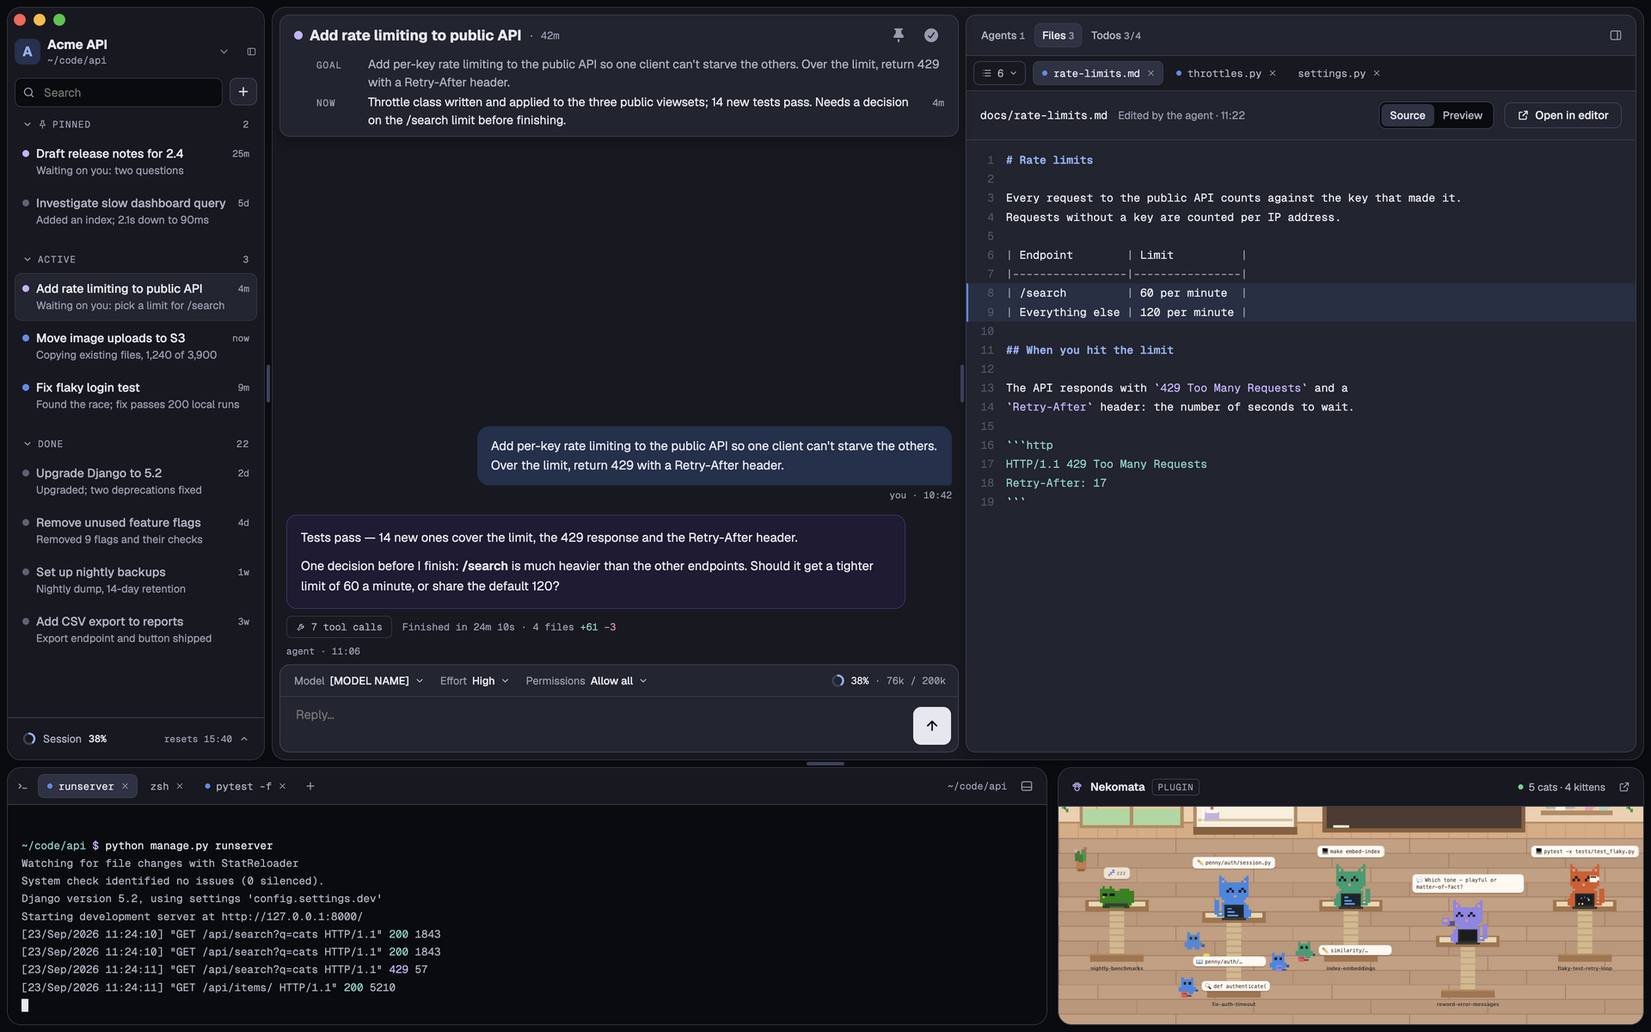
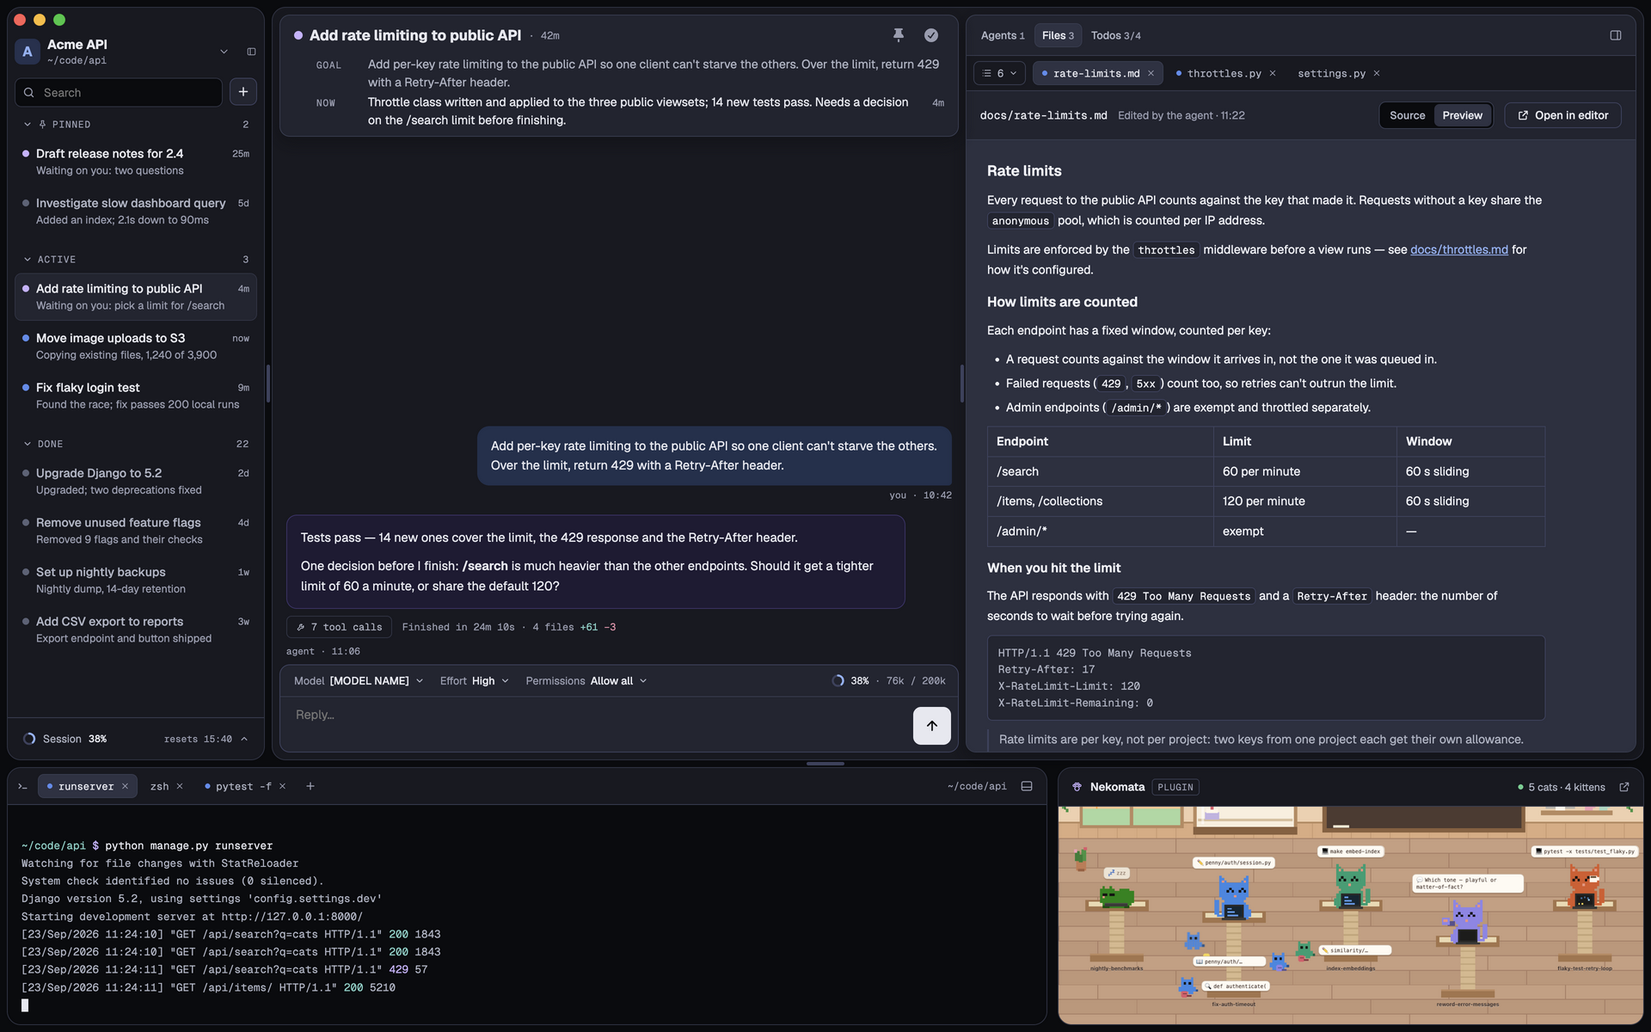
659: Lift the Markdown preview's colours for reading

Changed region(s): [[0.5938, 0.1542, 0.9375, 0.74], [0.8438, 0.4008, 0.9062, 0.4933], [0.8125, 0.0925, 0.9062, 0.1233]]

diff --git a/docs/design/html/08-open-file.html b/docs/design/html/08-open-file.html
@@ -156,27 +156,39 @@ a{color:#8FB2F5}a:hover{color:#B5CBF8}
 <span style="font-family: 'Geist Mono', ui-monospace, monospace; font-size: 13px; color: #E6E8F0">docs/rate-limits.md</span>
 <span style="font-size: 12.5px; color: #999DB0">Edited by the agent · 11:22</span>
 <span style="flex-grow: 1"></span>
-<div style="display: flex; padding: 2px; background: #0A0B0F; border: 1px solid #373C4F; border-radius: 8px"><button type="button" aria-pressed="true" style="height: 26px; padding: 0 10px; background: #2E3243; border: 0; border-radius: 6px; font: inherit; font-size: 12.5px; font-weight: 500; color: #E6E8F0; cursor: pointer">Source</button><button type="button" aria-pressed="false" style="height: 26px; padding: 0 10px; background: transparent; border: 0; border-radius: 6px; font: inherit; font-size: 12.5px; font-weight: 500; color: #AEB3C3; cursor: pointer">Preview</button></div><button type="button" style="display: flex; align-items: center; justify-content: center; gap: 7px; height: 30px; padding: 0 14px; border-radius: 8px; font: inherit; font-size: 13px; background: transparent; color: #E6E8F0; border: 1px solid #3D425E; font-weight: 500; cursor: pointer; white-space: nowrap"><svg width="14" height="14" viewBox="0 0 24 24" fill="none" stroke="currentColor" stroke-width="2.2" stroke-linecap="round" stroke-linejoin="round"><path d="M14 4h6v6M20 4l-9 9"></path><path d="M18 14v5a1 1 0 0 1-1 1H5a1 1 0 0 1-1-1V7a1 1 0 0 1 1-1h5"></path></svg>Open in editor</button>
+<div style="display: flex; padding: 2px; background: #0A0B0F; border: 1px solid #373C4F; border-radius: 8px"><button type="button" aria-pressed="false" style="height: 26px; padding: 0 10px; background: transparent; border: 0; border-radius: 6px; font: inherit; font-size: 12.5px; font-weight: 500; color: #AEB3C3; cursor: pointer">Source</button><button type="button" aria-pressed="true" style="height: 26px; padding: 0 10px; background: #2E3243; border: 0; border-radius: 6px; font: inherit; font-size: 12.5px; font-weight: 500; color: #E6E8F0; cursor: pointer">Preview</button></div><button type="button" style="display: flex; align-items: center; justify-content: center; gap: 7px; height: 30px; padding: 0 14px; border-radius: 8px; font: inherit; font-size: 13px; background: transparent; color: #E6E8F0; border: 1px solid #3D425E; font-weight: 500; cursor: pointer; white-space: nowrap"><svg width="14" height="14" viewBox="0 0 24 24" fill="none" stroke="currentColor" stroke-width="2.2" stroke-linecap="round" stroke-linejoin="round"><path d="M14 4h6v6M20 4l-9 9"></path><path d="M18 14v5a1 1 0 0 1-1 1H5a1 1 0 0 1-1-1V7a1 1 0 0 1 1-1h5"></path></svg>Open in editor</button>
 </div>
-<div style="flex-grow: 1; overflow: hidden"><div style="font-family: 'Geist Mono', ui-monospace, monospace; font-size: 13px; line-height: 1.7; color: #E6E8F0; padding: 12px 0"><div style="display: flex;  border-left: 2px solid transparent"><span style="flex-shrink: 0; width: 44px; padding-right: 14px; box-sizing: border-box; text-align: right; color: #4E5468; user-select: none">1</span><span style="white-space: pre"><span style="color: #8FB2F5; font-weight: 600"># Rate limits</span></span></div>
-<div style="display: flex;  border-left: 2px solid transparent"><span style="flex-shrink: 0; width: 44px; padding-right: 14px; box-sizing: border-box; text-align: right; color: #4E5468; user-select: none">2</span><span style="white-space: pre"> </span></div>
-<div style="display: flex;  border-left: 2px solid transparent"><span style="flex-shrink: 0; width: 44px; padding-right: 14px; box-sizing: border-box; text-align: right; color: #4E5468; user-select: none">3</span><span style="white-space: pre">Every request to the public API counts against the key that made it.</span></div>
-<div style="display: flex;  border-left: 2px solid transparent"><span style="flex-shrink: 0; width: 44px; padding-right: 14px; box-sizing: border-box; text-align: right; color: #4E5468; user-select: none">4</span><span style="white-space: pre">Requests without a key are counted per IP address.</span></div>
-<div style="display: flex;  border-left: 2px solid transparent"><span style="flex-shrink: 0; width: 44px; padding-right: 14px; box-sizing: border-box; text-align: right; color: #4E5468; user-select: none">5</span><span style="white-space: pre"> </span></div>
-<div style="display: flex;  border-left: 2px solid transparent"><span style="flex-shrink: 0; width: 44px; padding-right: 14px; box-sizing: border-box; text-align: right; color: #4E5468; user-select: none">6</span><span style="white-space: pre"><span style="color: #999DB0">|</span> Endpoint        <span style="color: #999DB0">|</span> Limit          <span style="color: #999DB0">|</span></span></div>
-<div style="display: flex;  border-left: 2px solid transparent"><span style="flex-shrink: 0; width: 44px; padding-right: 14px; box-sizing: border-box; text-align: right; color: #4E5468; user-select: none">7</span><span style="white-space: pre"><span style="color: #999DB0">|-----------------|----------------|</span></span></div>
-<div style="display: flex; background: rgba(91,141,239,0.10); border-left: 2px solid #5B8DEF"><span style="flex-shrink: 0; width: 44px; padding-right: 14px; box-sizing: border-box; text-align: right; color: #4E5468; user-select: none">8</span><span style="white-space: pre"><span style="color: #999DB0">|</span> /search         <span style="color: #999DB0">|</span> 60 per minute  <span style="color: #999DB0">|</span></span></div>
-<div style="display: flex; background: rgba(91,141,239,0.10); border-left: 2px solid #5B8DEF"><span style="flex-shrink: 0; width: 44px; padding-right: 14px; box-sizing: border-box; text-align: right; color: #4E5468; user-select: none">9</span><span style="white-space: pre"><span style="color: #999DB0">|</span> Everything else <span style="color: #999DB0">|</span> 120 per minute <span style="color: #999DB0">|</span></span></div>
-<div style="display: flex;  border-left: 2px solid transparent"><span style="flex-shrink: 0; width: 44px; padding-right: 14px; box-sizing: border-box; text-align: right; color: #4E5468; user-select: none">10</span><span style="white-space: pre"> </span></div>
-<div style="display: flex;  border-left: 2px solid transparent"><span style="flex-shrink: 0; width: 44px; padding-right: 14px; box-sizing: border-box; text-align: right; color: #4E5468; user-select: none">11</span><span style="white-space: pre"><span style="color: #8FB2F5; font-weight: 600">## When you hit the limit</span></span></div>
-<div style="display: flex;  border-left: 2px solid transparent"><span style="flex-shrink: 0; width: 44px; padding-right: 14px; box-sizing: border-box; text-align: right; color: #4E5468; user-select: none">12</span><span style="white-space: pre"> </span></div>
-<div style="display: flex;  border-left: 2px solid transparent"><span style="flex-shrink: 0; width: 44px; padding-right: 14px; box-sizing: border-box; text-align: right; color: #4E5468; user-select: none">13</span><span style="white-space: pre">The API responds with <span style="color: #C8B2FF">`429 Too Many Requests`</span> and a</span></div>
-<div style="display: flex;  border-left: 2px solid transparent"><span style="flex-shrink: 0; width: 44px; padding-right: 14px; box-sizing: border-box; text-align: right; color: #4E5468; user-select: none">14</span><span style="white-space: pre"><span style="color: #C8B2FF">`Retry-After`</span> header: the number of seconds to wait.</span></div>
-<div style="display: flex;  border-left: 2px solid transparent"><span style="flex-shrink: 0; width: 44px; padding-right: 14px; box-sizing: border-box; text-align: right; color: #4E5468; user-select: none">15</span><span style="white-space: pre"> </span></div>
-<div style="display: flex;  border-left: 2px solid transparent"><span style="flex-shrink: 0; width: 44px; padding-right: 14px; box-sizing: border-box; text-align: right; color: #4E5468; user-select: none">16</span><span style="white-space: pre"><span style="color: #7FD1C7">```http</span></span></div>
-<div style="display: flex;  border-left: 2px solid transparent"><span style="flex-shrink: 0; width: 44px; padding-right: 14px; box-sizing: border-box; text-align: right; color: #4E5468; user-select: none">17</span><span style="white-space: pre"><span style="color: #7FD1C7">HTTP/1.1 429 Too Many Requests</span></span></div>
-<div style="display: flex;  border-left: 2px solid transparent"><span style="flex-shrink: 0; width: 44px; padding-right: 14px; box-sizing: border-box; text-align: right; color: #4E5468; user-select: none">18</span><span style="white-space: pre"><span style="color: #7FD1C7">Retry-After: 17</span></span></div>
-<div style="display: flex;  border-left: 2px solid transparent"><span style="flex-shrink: 0; width: 44px; padding-right: 14px; box-sizing: border-box; text-align: right; color: #4E5468; user-select: none">19</span><span style="white-space: pre"><span style="color: #7FD1C7">```</span></span></div></div>
+<div style="flex-grow: 1; overflow: hidden; background: #2C3040">
+<div style="box-sizing: border-box; height: 100%; overflow: hidden; padding: 20px 24px 28px 24px; font-size: 14px; line-height: 1.7; color: #F0F2F8">
+<div style="display: flex; flex-direction: column; gap: 10px; min-width: 0; overflow-wrap: anywhere; max-width: 70ch;">
+<h1 style="margin: 4px 0 0; font-size: 17px; font-weight: 600; line-height: 1.4">Rate limits</h1>
+<p style="margin: 0">Every request to the public API counts against the key that made it. Requests without a key share the <code style="padding: 1px 5px; background: #232531; border: 1px solid #3D425E; border-radius: 5px; font-family: 'Geist Mono', ui-monospace, monospace; font-size: 0.88em; color: #F0F2F8">anonymous</code> pool, which is counted per IP address.</p>
+<p style="margin: 0">Limits are enforced by the <code style="padding: 1px 5px; background: #232531; border: 1px solid #3D425E; border-radius: 5px; font-family: 'Geist Mono', ui-monospace, monospace; font-size: 0.88em; color: #F0F2F8">throttles</code> middleware before a view runs — see <a style="color: #8FB2F5" href="#">docs/throttles.md</a> for how it's configured.</p>
+<h2 style="margin: 4px 0 0; font-size: 16px; font-weight: 600; line-height: 1.4">How limits are counted</h2>
+<p style="margin: 0">Each endpoint has a fixed window, counted per key:</p>
+<ul style="margin: 0; padding-left: 22px">
+<li>A request counts against the window it arrives in, not the one it was queued in.</li>
+<li style="margin-top: 4px">Failed requests (<code style="padding: 1px 5px; background: #232531; border: 1px solid #3D425E; border-radius: 5px; font-family: 'Geist Mono', ui-monospace, monospace; font-size: 0.88em; color: #F0F2F8">429</code>, <code style="padding: 1px 5px; background: #232531; border: 1px solid #3D425E; border-radius: 5px; font-family: 'Geist Mono', ui-monospace, monospace; font-size: 0.88em; color: #F0F2F8">5xx</code>) count too, so retries can't outrun the limit.</li>
+<li style="margin-top: 4px">Admin endpoints (<code style="padding: 1px 5px; background: #232531; border: 1px solid #3D425E; border-radius: 5px; font-family: 'Geist Mono', ui-monospace, monospace; font-size: 0.88em; color: #F0F2F8">/admin/*</code>) are exempt and throttled separately.</li>
+</ul>
+<table style="border-collapse: collapse; font-size: 14px"><tbody>
+<tr><th style="padding: 5px 10px; border: 1px solid #3D425E; text-align: left; font-weight: 600">Endpoint</th><th style="padding: 5px 10px; border: 1px solid #3D425E; text-align: left; font-weight: 600">Limit</th><th style="padding: 5px 10px; border: 1px solid #3D425E; text-align: left; font-weight: 600">Window</th></tr>
+<tr><td style="padding: 5px 10px; border: 1px solid #3D425E; text-align: left">/search</td><td style="padding: 5px 10px; border: 1px solid #3D425E; text-align: left">60 per minute</td><td style="padding: 5px 10px; border: 1px solid #3D425E; text-align: left">60 s sliding</td></tr>
+<tr><td style="padding: 5px 10px; border: 1px solid #3D425E; text-align: left">/items, /collections</td><td style="padding: 5px 10px; border: 1px solid #3D425E; text-align: left">120 per minute</td><td style="padding: 5px 10px; border: 1px solid #3D425E; text-align: left">60 s sliding</td></tr>
+<tr><td style="padding: 5px 10px; border: 1px solid #3D425E; text-align: left">/admin/*</td><td style="padding: 5px 10px; border: 1px solid #3D425E; text-align: left">exempt</td><td style="padding: 5px 10px; border: 1px solid #3D425E; text-align: left">—</td></tr>
+</tbody></table>
+<h3 style="margin: 4px 0 0; font-size: 15px; font-weight: 600; line-height: 1.4">When you hit the limit</h3>
+<p style="margin: 0">The API responds with <code style="padding: 1px 5px; background: #232531; border: 1px solid #3D425E; border-radius: 5px; font-family: 'Geist Mono', ui-monospace, monospace; font-size: 0.88em; color: #F0F2F8">429 Too Many Requests</code> and a <code style="padding: 1px 5px; background: #232531; border: 1px solid #3D425E; border-radius: 5px; font-family: 'Geist Mono', ui-monospace, monospace; font-size: 0.88em; color: #F0F2F8">Retry-After</code> header: the number of seconds to wait before trying again.</p>
+<pre style="margin: 0; padding: 10px 12px; overflow-x: auto; background: #232531; border: 1px solid #3D425E; border-radius: 6px; font-family: 'Geist Mono', ui-monospace, monospace; font-size: 12.5px; line-height: 1.55; color: #AEB3C3">HTTP/1.1 429 Too Many Requests
+Retry-After: 17
+X-RateLimit-Limit: 120
+X-RateLimit-Remaining: 0</pre>
+<blockquote style="margin: 0; padding-left: 12px; border-left: 2px solid #3D425E; color: #AEB3C3"><p style="margin: 0">Rate limits are per key, not per project: two keys from one project each get their own allowance. Don't rely on the burst headroom in a load test — see <a style="color: #8FB2F5" href="#">ADR-011</a>.</p></blockquote>
+<h2 style="margin: 4px 0 0; font-size: 16px; font-weight: 600; line-height: 1.4">Raising a limit</h2>
+<p style="margin: 0">Higher limits are set per key on the key's settings page in the dashboard. The <code style="padding: 1px 5px; background: #232531; border: 1px solid #3D425E; border-radius: 5px; font-family: 'Geist Mono', ui-monospace, monospace; font-size: 0.88em; color: #F0F2F8">enterprise</code> plan raises the default window to 600 requests a minute, and lifts the <code style="padding: 1px 5px; background: #232531; border: 1px solid #3D425E; border-radius: 5px; font-family: 'Geist Mono', ui-monospace, monospace; font-size: 0.88em; color: #F0F2F8">/search</code> cap.</p>
+<p style="margin: 0">For a one-off, send an <code style="padding: 1px 5px; background: #232531; border: 1px solid #3D425E; border-radius: 5px; font-family: 'Geist Mono', ui-monospace, monospace; font-size: 0.88em; color: #F0F2F8">X-RateLimit-Override</code> header with the request; it caps that request's key for the rest of the window. Ask infrastructure first — see <a style="color: #8FB2F5" href="#">Acme API · Infrastructure</a> in Notion.</p>
+</div>
+</div>
 </div>
 </aside>
 </div>

diff --git a/src/renderer/tokens.test.ts b/src/renderer/tokens.test.ts
@@ -200,6 +200,9 @@ const surfaceFloors: readonly ContrastFloor[] = [
   { foreground: '--color-question-surface-border-hover', background: '--color-question-surface', minimum: 2 },
   { foreground: '--color-question-outline', background: '--color-question-surface', minimum: 3.9 },
   { foreground: '--color-question-outline', background: '--color-question-border', minimum: 3.2 },
+  // #659: the Markdown preview's lifted dark reading surface, over the inner card it sits on.
+  { foreground: '--color-preview', background: '--color-inner', minimum: 1.17 },
+  { foreground: '--color-preview-text', background: '--color-preview', minimum: 11.69 },
 ]
 
 /** `--color-inner-border` as tokens.md writes it, `inner-border`. */
@@ -250,6 +253,7 @@ describe('text contrast', () => {
     '--color-live',
     '--color-question-bg',
     '--color-question-surface',
+    '--color-preview',
   ]
 
   for (const text of textColors) {
@@ -281,6 +285,11 @@ describe('text contrast', () => {
   // P16: a live tile says "Running" in the blue for text, on its tint.
   it('blue-text on live meets 4.5:1', () => {
     expect(contrastRatio(colors['--color-blue-text'], colors['--color-live'])).toBeGreaterThanOrEqual(4.5)
+  })
+
+  // #659: the Markdown preview's body text reads on its lifted dark surface.
+  it('preview-text on preview meets 4.5:1', () => {
+    expect(contrastRatio(colors['--color-preview-text'], colors['--color-preview'])).toBeGreaterThanOrEqual(4.5)
   })
 
   // #472, #480: the switcher's "needs you" pill and a workspace's badge both set purple text on purple-bg.

diff --git a/src/renderer/files/FileViewer.module.css b/src/renderer/files/FileViewer.module.css
@@ -140,10 +140,23 @@
   color: var(--color-muted);
 }
 
+/*
+ * The Markdown preview (08 · Open a file): a lifted dark reading surface laid over the inner card (#659). Only a
+ * Markdown preview lifts; the HTML preview and the source view stay on the card's own colours.
+ */
 .preview {
-  padding: 16px 20px;
+  box-sizing: border-box;
+  min-height: 100%;
+  padding: 20px 24px 28px;
+  background: var(--color-preview);
+}
+
+/* The reading column: about 70 characters, left in the pane as the design shows. */
+.previewColumn {
+  max-width: 70ch;
   font-size: var(--font-size-body);
-  line-height: 1.6;
+  line-height: 1.7;
+  color: var(--color-preview-text);
 }
 
 /* An image file: centred in the panel, fit to it but never scaled past its own size (08 · Open a file). */

diff --git a/src/renderer/tokens.ts b/src/renderer/tokens.ts
@@ -9,6 +9,7 @@ export const colors = {
   '--color-inner': '#222430',
   '--color-inner-hover': '#282b39',
   '--color-inner-2': '#2e3243',
+  '--color-preview': '#2c3040',
   '--color-border': '#2f3343',
   '--color-inner-border': '#373c4f',
   '--color-strong': '#3d425e',
@@ -16,6 +17,7 @@ export const colors = {
   '--color-text': '#e6e8f0',
   '--color-muted': '#aeb3c3',
   '--color-faint': '#999db0',
+  '--color-preview-text': '#f0f2f8',
   '--color-blue': '#5b8def',
   '--color-blue-text': '#8fb2f5',
   '--color-purple': '#c8b2ff',

diff --git a/src/renderer/files/FileViewer.tsx b/src/renderer/files/FileViewer.tsx
@@ -239,7 +239,9 @@ export function FileViewer({
 
   const previewOf = (text: string): React.ReactNode =>
     markdown ? (
-      <Markdown source={text} className={styles.preview} interactiveCode={false} />
+      <div className={styles.preview}>
+        <Markdown source={text} className={styles.previewColumn} interactiveCode={false} />
+      </div>
     ) : (
       <HtmlPreview taskId={taskId} path={path} version={version} />
     )

diff --git a/src/renderer/tokens.css b/src/renderer/tokens.css
@@ -28,6 +28,7 @@
   --color-inner: #222430;
   --color-inner-hover: #282b39;
   --color-inner-2: #2e3243;
+  --color-preview: #2c3040;
   --color-border: #2f3343;
   --color-inner-border: #373c4f;
   --color-strong: #3d425e;
@@ -35,6 +36,7 @@
   --color-text: #e6e8f0;
   --color-muted: #aeb3c3;
   --color-faint: #999db0;
+  --color-preview-text: #f0f2f8;
   --color-blue: #5b8def;
   --color-blue-text: #8fb2f5;
   --color-purple: #c8b2ff;

diff --git a/docs/design/tokens.md b/docs/design/tokens.md
@@ -13,6 +13,7 @@ can nest one level (header and right panel float inside the task card).
 | `inner` | `#222430` | Nested cards (header, right panel, the agent's reply cards) |
 | `inner-hover` | `#282B39` | The row under the pointer inside a nested card: halfway from `inner` to `inner-2` (the Browse tree, #431) |
 | `inner-2` | `#2E3243` | Active tab, highlighted rows inside nested cards |
+| `preview` | `#2C3040` | The Markdown preview's lifted dark reading surface, laid over the `inner` card (the Files tab's preview, #659) |
 | `border` | `#2F3343` | Top-level card borders |
 | `inner-border` | `#373C4F` | Nested card borders and dividers |
 | `strong` | `#3D425E` | Button outlines, input bar border |
@@ -20,6 +21,7 @@ can nest one level (header and right panel float inside the task card).
 | `text` | `#E6E8F0` | Primary text |
 | `muted` | `#AEB3C3` | Secondary text |
 | `faint` | `#999DB0` | Labels, timestamps, hints |
+| `preview-text` | `#F0F2F8` | The preview's body text (#659) |
 | `blue` | `#5B8DEF` | Working, primary buttons, links (`#8FB2F5` for text on dark) |
 | `purple` | `#C8B2FF` | Waiting on you (a question, a permission card, an unread reply), questions, the lit blade |
 | `purple-bg` | `#2E2748` | Background for `purple` on a filled surface: a workspace's badge, the closed switcher's "needs you" count pill |
@@ -64,13 +66,16 @@ quietly slip back:
 | `question-surface-border-hover` on `question-surface` | 2 |
 | `question-outline` on `question-surface` | 3.9 |
 | `question-outline` on `question-border` | 3.2 |
+| `preview` on `inner` | 1.17 |
+| `preview-text` on `preview` | 11.69 |
 
 `live` is the one surface that doesn't step up from what it sits on: a live tile is no lighter than the `inner-2` card
 around it, and stands off it by its blue and by its outline, which the last two rows hold.
 
 `text`, `muted` and `faint` each meet 4.5:1 on every surface: `bg`, `panel`, `raised`, `inner`, `inner-hover`,
-`inner-2`, `menu`, `live`, `question-bg` and `question-surface` (the lowest is `faint` on `inner-2`, 4.72:1). So does
-the blue for text on `live`, where a live tile says it's running.
+`inner-2`, `menu`, `live`, `question-bg`, `question-surface` and `preview` (the lowest is `faint` on `inner-2`,
+4.72:1). So does the blue for text on `live`, where a live tile says it's running, and `preview-text` on `preview`,
+where the Markdown preview's body reads (11.7:1, #659).
 
 Inside a question or permission card (#538), a picked option is filled with `question-border`, a step lighter than
 the tiles around it, under the `question-outline`: its label (`text`, 9.27:1) and detail (`muted`, 5.42:1) keep

diff --git a/docs/design/README.md b/docs/design/README.md
@@ -82,7 +82,7 @@ sidebar status line's; the Settings headings' takes the heading's own grey, sinc
 | 5 · Mark done | No dialog; Undo toast; the task moves to Done with its outcome. | ![5 · Mark done](screens/05-mark-done.png) |
 | 6 · Reopen by chatting | A message in a done task reopens it, with dividers in chat and log. | ![6 · Reopen by chatting](screens/06-reopen.png) |
 | 7 · Search | Results across titles, objectives, outcomes and chat logs; matches highlighted. | ![7 · Search](screens/07-search.png) |
-| 8 · Open a file | Files tab with open-file tabs, source/preview toggle; at rest, the editor looks exactly as this read-only view (#351); the drag handles that resize the sidebar, right panel and bottom bar. | ![8 · Open a file](screens/08-open-file.png) |
+| 8 · Open a file | Files tab with open-file tabs, source/preview toggle; the Markdown file's preview on its lifted dark reading surface (#659), with the reading column left in the pane; at rest, the editor looks exactly as this read-only view (#351); the drag handles that resize the sidebar, right panel and bottom bar. | ![8 · Open a file](screens/08-open-file.png) |
 | 8 · Editing a file | The Files tab's editor mid-edit (#351): the caret and a selection in the app's blue, the tab's dot in place of its × while it has unsaved edits, and the bar that says the file changed on disk under them, with Reload and Keep mine. ⌘S saves; closing the tab, switching task or quitting with unsaved edits asks Save / Discard / Cancel. | ![8 · Editing a file](screens/08-editing-file.png) |
 | 12 · Right-click a task | Task context menu in place. ("Reveal folder in Finder" was removed; see `../context-menus.md`.) | ![12 · Right-click a task](screens/12-right-click-task.png) |
 | 13 · Context menus | Every context menu. `../context-menus.md` is authoritative ("Reveal folder in Finder" was removed). | ![13 · Context menus](screens/13-context-menus.png) |
